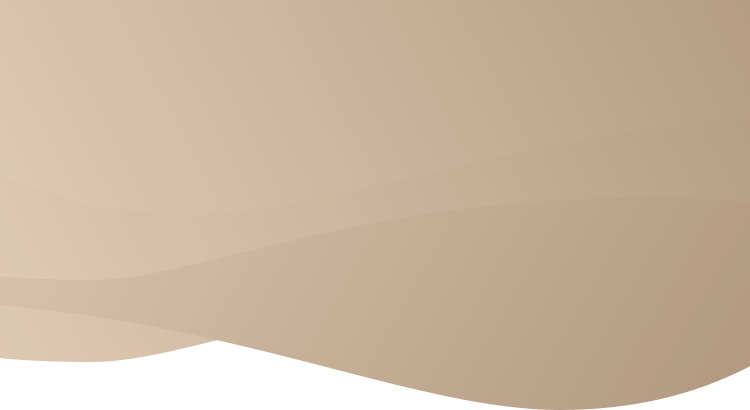
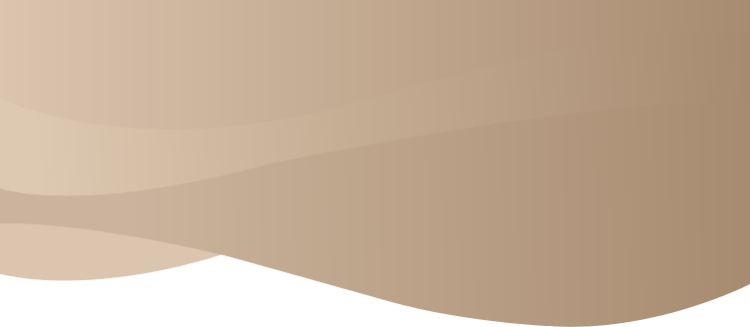
[MOD]大廳客服/webview客服換圖

diff --git a/resource/src/router/mobile/components/tpl/porn1/components/service/index.vue b/resource/src/router/mobile/components/tpl/porn1/components/service/index.vue
@@ -385,7 +385,7 @@ div.container {
   background-image: url("/static/image/aobo1/service/header_bg.png");
   background-repeat: no-repeat;
   background-size: 100% auto;
-  background-position: 0 -70px;
+  // background-position: 0 -70px;
   background-repeat: no-repeat;
   position: relative;
   height: 100vh;
